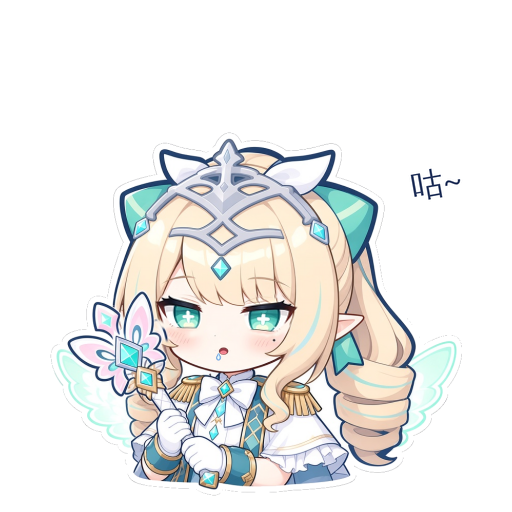
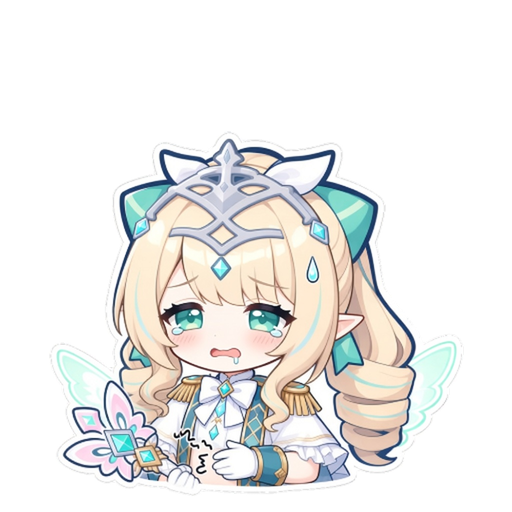
Add tune points for gloom reactions; redo hungry sprite with Grok
New tunables come_refuse_lines, greet_lines, greet_cheer and status_line
(plus a "text" tune type) so a behavior plugin can give her a different
set of reactions, e.g. when her mood hits rock bottom. Without such a
plugin nothing changes.

The hungry face was an edit of the focus sprite and did not read as
hungry; it is replaced by a Grok take (hand on tummy, droopy teary eyes).
The prompt prefix no longer spells out the hex colour, which Grok had
drawn into one image as text.

Claude-Session: https://claude.ai/code/session_01Jzc6FuEEpiHSeSBqZ5Z8rB

diff --git a/main.py b/main.py
@@ -174,6 +174,10 @@ TUNABLE = {
     "sleep_after": ("float", 15.0, 3600.0),     # 多久没人理就睡着(秒); ctx: edge
     "food_refuse_p": ("float", 0.0, 1.0),       # 不爱吃 / 奇怪的东西直接推开的概率; ctx: key tier trait
     "come_ok": ("bool", None, None),            # 叫她「过来~」肯不肯来
+    "come_refuse_lines": ("lines", None, None), # 不肯过来时说的那句
+    "greet_lines": ("lines", None, None),       # 你离开一阵回来, 她迎接你说的那句; ctx: long(离开很久), level
+    "greet_cheer": ("bool", None, None),        # 迎接时(好友起)要不要欢呼、蹦、冒爱心; False = 只挥挥手
+    "status_line": ("text", 1, 20),             # 小屋头部「没事时」那句; ctx: kind(hungry|butterfly|level), level
     "hungry_remind": ("float", 0.0, 86400.0),   # 饿了提醒的间隔(秒), 0 = 本体不提醒(交给插件)
     "sneak_done_lines": ("lines", None, None),  # 偷吃没被发现, 吃完得意的那句的台词池
     "sneak_caught_lines": ("lines", None, None),  # 偷吃被你点到, 害羞否认的那句的台词池
@@ -1002,7 +1006,7 @@ class PetWindow(QWidget):
         self.say(C.LEVEL_UP.format(name=name), force=True, duration=5.0, tone="happy")
 
     def mood_text(self):
-        """小屋头部那句话: 正在发生什么就说什么(插件管的状态最先), 没事时和原来一样按好感说"""
+        """小屋头部那句话: 正在发生什么就说什么(插件管的状态最先), 没事时和原来一样按好感说(插件可用 status_line 换)"""
         st = self.stats
         for text in self._ix.state_texts():             # 插件管的状态(超级生气、转吐……)
             return text
@@ -1021,13 +1025,15 @@ class PetWindow(QWidget):
             return C.STATUS_STATE_TEXTS[self.state]
         if "walk" in acts:
             return C.STATUS_WALK_TEXT
-        if st.hunger < 25:
-            return "肚子咕咕叫,想吃东西~"
-        if self.butterfly.active():
-            return "在看小蝴蝶飞来飞去~"
         lv = st.level()[0]
-        return ["有点害羞,还在熟悉你~", "觉得和你待着很舒服", "把你当成好朋友啦",
-                "每天都想见到你~", "你是她最重要的人之一", "和你缔结了心之契约 ✦"][min(lv, 6) - 1]
+        if st.hunger < 25:
+            kind, text = "hungry", "肚子咕咕叫,想吃东西~"
+        elif self.butterfly.active():
+            kind, text = "butterfly", "在看小蝴蝶飞来飞去~"
+        else:
+            kind, text = "level", ["有点害羞,还在熟悉你~", "觉得和你待着很舒服", "把你当成好朋友啦",
+                                   "每天都想见到你~", "你是她最重要的人之一", "和你缔结了心之契约 ✦"][min(lv, 6) - 1]
+        return self._tune("status_line", text, kind=kind, level=lv)     # 插件可以换(比如心情跌到谷底时)
 
     # ----- 专注计时 -----
     def start_focus(self, mins):
@@ -1654,7 +1660,7 @@ class PetWindow(QWidget):
             cx = QCursor.pos().x() - (self.x() + self.width() / 2)
             self.set_state("look_left" if cx > 0 else "look", 1.6)
             self.kick(-1.0)
-            self.quip(C.COME_REFUSE_TEXTS, urgent=True)
+            self.quip(self._tune("come_refuse_lines", C.COME_REFUSE_TEXTS), urgent=True)
             self.emit_event("come_refused")
             return
         if self.edge:
@@ -2575,11 +2581,13 @@ class PetWindow(QWidget):
         if self.edge:
             self._reveal_until = time.monotonic() + 3.0
         lv = self.stats.level()[0]
+        long = pool is C.BACK_TEXTS
         if pool is C.RETURN_TEXTS:                        # 短暂离开: 好感够了换成更亲近的那组话
             for k, extra in C.RETURN_TEXTS_LV.items():
                 if lv >= k:
                     pool = extra
-        if lv >= RETURN_CHEER_LV:                        # 好友起: 跳起来欢迎, 冒爱心
+        pool = self._tune("greet_lines", pool, long=long, level=lv)
+        if lv >= RETURN_CHEER_LV and self._tune("greet_cheer", True, level=lv):   # 好友起: 跳起来欢迎, 冒爱心
             self.set_state("cheer", 2.2)
             self.burst("heart", 6)
             if not self.edge:
@@ -3671,6 +3679,8 @@ class PetWindow(QWidget):
         if kind == "lines":
             lines = [x for x in v if isinstance(x, str) and x.strip()] if isinstance(v, (list, tuple)) else []
             return lines or value
+        if kind == "text":
+            return v.strip()[:hi] if isinstance(v, str) and v.strip() else value
         return value
 
     def plugin_status(self):

diff --git a/docs/PROMPTS_faces.md b/docs/PROMPTS_faces.md
@@ -2,7 +2,7 @@
 
 这是提示词，不是成品图，用 Grok 出图。
 - 这四张：`sulk`（赌气）、`held`（被拎起）、`yuck`（皱脸）、`wet`（湿漉漉）。成品放 `assets/<名字>.png`，放进去就生效，没有图时会回退到原来那张（见 `docs/接口规范.md` 第 2.6 节）。
-- `pout`、`hungry`、`smug`、`queasy` 四张是在原立绘上直接改脸做的，不用再出。
+- `pout`、`smug`、`queasy` 三张是在原立绘上直接改脸做的，不用再出。`hungry` 原来也是改脸做的，看着不像饿，已经用 Grok 重出（见文末）。
 - Grok 出来的原图直接拿去处理就行，不用自己抠图。之后要做的是：去掉灰背景、缩放到 512×512、底边对齐、和原立绘比对大小。
 
 ## 2026-10-31 第一轮出图结果
@@ -19,11 +19,11 @@
 ## Grok 的用法
 - 每张都用「上传参考图 + 改图指令」来出，只靠文字很难画得像本人。参考图用包里带的 `ref_*.png`：就是原立绘铺上灰底，免得透明背景被当成黑色。
 - Grok 没有单独的反向提示词框，所以「不要什么」已经写进了通用前缀。
-- 背景要求是纯灰色，因为白描边贴在白底上就抠不出来了。
+- 背景要求是纯灰色，因为白描边贴在白底上就抠不出来了。前缀里不要写颜色代码（比如 #808080），Grok 会把它当成文字画进图里。
 - 每张出 3–4 个版本，挑头冠、发型、泪痣都对的那一张。如果画风跑偏了，就在末尾加一句 `The art style must match the uploaded image exactly.` 再出。
 
 ## 通用前缀（每张都先贴这段，后面接正文）
-Edit the uploaded image. Keep the exact same chibi girl: same art style, line weight and colours, symmetrical twin drill-curl blonde hair with teal streaks, silver tiara with a teal forehead gem, two teal ribbon bows and white hairband, pointed elf ears, teal eyes, small tear mole under her left eye, white gloves, white ruffled capelet, gold epaulettes, small mint translucent fairy wings. Keep the same bust-shot framing cropped flat at the bottom edge and the thick white sticker outline around the whole figure. Plain flat solid medium grey background (#808080), no gradient, no shadow, nothing on the ground. No text, no watermark, no extra characters, no full body, no legs. Change only the following:
+Edit the uploaded image. Keep the exact same chibi girl: same art style, line weight and colours, symmetrical twin drill-curl blonde hair with teal streaks, silver tiara with a teal forehead gem, two teal ribbon bows and white hairband, pointed elf ears, teal eyes, small tear mole under her left eye, white gloves, white ruffled capelet, gold epaulettes, small mint translucent fairy wings. Keep the same bust-shot framing cropped flat at the bottom edge and the thick white sticker outline around the whole figure. Plain flat solid medium grey background, no gradient, no shadow, nothing on the ground. No text, no watermark, no extra characters, no full body, no legs. Change only the following:
 
 ## sulk.png 赌气（参考图 `ref_angry.png`）
 用在闹别扭期间。头部那句是「背对着你,假装在看风景……」。
@@ -48,3 +48,10 @@ she has just tasted something she really dislikes: face scrunched up, eyes squee
 she has just been soaked with water and is grumpy about it: blonde hair a shade darker and flattened, drill curls drooping and dripping, a few wet strands stuck to her cheeks, water droplets falling from her hair, tiara and ribbons, half-lidded glaring eyes, cheeks puffed in an angry pout, a small red anger mark. The water stays on her only: no puddle, no splash on the ground.
 
 备注：头冠和蝴蝶结即使湿了也必须看得清。头发会变暗，这时候它们就是认出她最关键的地方。
+
+## hungry.png 饿了（重出，参考图 `ref_idle.png`）
+用在饱腹低于 25、她站着发呆的时候，出现的时间比别的脸都长。第一版是在原图上改脸做的，眼睛借了"认真"那张，看起来不像饿，所以重出。
+
+she is hungry and out of energy: one gloved hand pressed against her tummy, the other hand loosely holding her wand lowered, shoulders slumped a little, droopy tired eyes looking up at the viewer with a pleading look, eyebrows sagging, small wavy open mouth, a tiny bit of drool at the corner of her mouth, one small sweat drop, and two or three little wavy growl lines coming from her tummy. Weak and pitiful but cute, not sick.
+
+备注：出了两轮，用的是第二轮的第 7 版（眼睛下垂没力气、含泪流口水、手捂肚子、有咕噜线），构图和 idle 一致，原样缩一半就对齐了。第一轮有一张把 `#808080` 当文字画了进去，所以前缀里已经删掉了颜色代码。

diff --git a/docs/接口规范.md b/docs/接口规范.md
@@ -122,6 +122,10 @@
 | `sleep_after` | 站着 180 秒 / 探头 60 秒 | 秒，15–3600 | `edge` | 多久没人理就睡着 |
 | `food_refuse_p` | 不爱吃 0.45 / 奇怪的 0.6 | 0–1 | `key` `tier` `trait` | 不爱吃 / 奇怪的东西直接推开的概率(整蛊食物不走这里) |
 | `come_ok` | `True` | 布尔 | — | 叫她「过来~」肯不肯来；`False` 时她扭头说一句，推 `come_refused` |
+| `come_refuse_lines` | 原版不肯来的台词 | 字符串列表，不能为空 | — | 不肯过来时说的那句 |
+| `greet_lines` | 原版迎接台词(按离开多久、好感挑好的那组) | 字符串列表，不能为空 | `long` `level` | 你离开电脑一阵又回来，她迎接你说的那句 |
+| `greet_cheer` | `True` | 布尔 | `level` | 迎接时(好感到「好友」起)要不要欢呼、蹦、冒爱心；`False` = 只挥挥手 |
+| `status_line` | 原版那句(饿了 / 看蝴蝶 / 按好感) | 文字，1–20 字(超出截断) | `kind`(hungry / butterfly / level) `level` | 小屋头部「没事时」那句；有事正在发生时不问 |
 | `hungry_remind` | 1200 秒 | 秒，0–86400；0 = 本体不提醒 | — | 本体「饿了」提醒的间隔(插件想自己管饿就设 0) |
 | `sneak_done_lines` | 原版得意台词 | 字符串列表，不能为空 | — | 偷吃没被发现、吃完时说的那句 |
 | `sneak_caught_lines` | 原版否认台词 | 字符串列表，不能为空 | — | 偷吃被你点到时说的那句 |
@@ -318,10 +322,15 @@
 - 新钩子 `state_text()`；`water` 和 `vomit` 实现了它。
 - 新可调参数 `sneak_done_lines` `sneak_caught_lines`；新事件 `sneak_done`。
 
+### 2026-10-31 心情谷底的调节口
+
+- 新可调参数 `come_refuse_lines` `greet_lines` `greet_cheer` `status_line`(第 2.5 节)；`tune` 新类型「文字」(非空字符串，按上限截断)。
+- 没有插件实现它们时，行为和以前一样。用它们的是私有的性格 DLC：心情跌破 -80 时不管好感多少都换一套反应。
+
 ### 2026-10-31 新表情(只换脸)
 
 - 新增「脸」(第 2.6 节)：`set_state(..., expr=)`、新钩子 `expr(key, state)`、`pet.codex()`。状态和互动规则没变，只是画的图变了。
-- 新图 `pout` `hungry` `smug` `queasy` 是在原图上改脸做的；`sulk` `held` `yuck` `wet` 是 Grok 出图(提示词 `docs/PROMPTS_faces.md`)。哪张删掉都会回退到原来那张。
+- 新图 `pout` `smug` `queasy` 是在原图上改脸做的；`hungry` `sulk` `held` `yuck` `wet` 是 Grok 出图(提示词 `docs/PROMPTS_faces.md`)。哪张删掉都会回退到原来那张。
 - 用上新脸的地方：猜拳输了 / 追蝴蝶扑空 / 心愿没等到 → 委屈；偷吃得手 → 偷吃；辣、苦、蔬菜、推开不爱吃的 → 皱脸；黑暗料理 → 难受；
   饿了发呆 → 饿了；闹别扭 → 赌气；被拎、被丢 → 被拎起；被浇水 → 湿漉漉。
 - 心愿没等到时，她现在会噘一下嘴(以前只说一句)。
